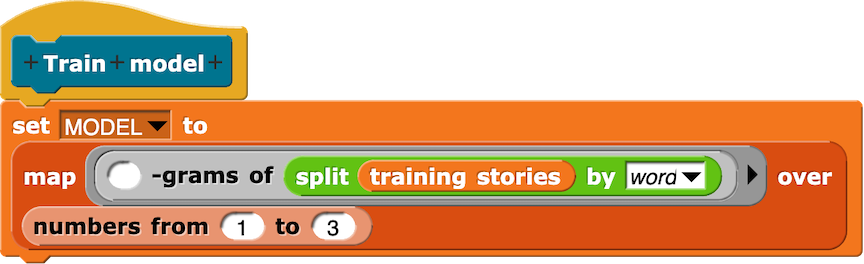
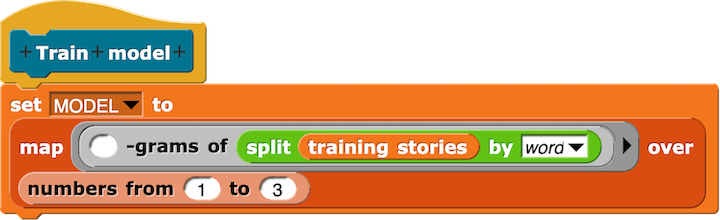
Sparks-U4L4P7-8 - Finished up lab 4

diff --git a/sparks/student-pages/U4/L4/07-generate-a-song.html b/sparks/student-pages/U4/L4/07-generate-a-song.html
@@ -3,35 +3,71 @@
     <head>
         <meta charset="utf-8">
         <script type="text/javascript" src="/bjc-r/llab/loader.js"></script>
-        <title>Unit 4 Lab 4: Generative AI with N-grams, Activity 2</title>
+        <title>Unit 4 Lab 4: Generative AI with N-grams, Activity 7</title>
     </head>
 
     <body>
-        <h2>How Does This Work?</h2>
-        <div class="learn">In this activity, you will preview a genAI Snap<em>!</em> project and generate your own story.</div>
+        <h2>Generate a Song</h2>
+        <div class="learn">In this activity, you will apply your algorithm to generating a song.</div>
         
-        <p>Here's a preview of the project you'll work with in this lab. The user enters the words "Once upon a time there was," and the rest of the story is generated by the program.</p>
-        <p>
-            <img class="indent" data-gifffer="/bjc-r/sparks/img/U4/lab04/ngram-story-example.gif"  alt="Animation of a Snap! project. The user enters: Once upon a time there was. Then words are generated on the screen one at a time to make a story." title="Animation of a Snap! project. The user enters: Once upon a time there was. Then words are generated on the screen one at a time to make a story."/>
-        </p>  
-
-
-
+		     
         <div class="forYouToDo">
             <ol>
-                <li>Click the image above to watch the program generate a story word by word.</li>
-                <li><img class="inline" src="/bjc-r/img/icons/talk-with-your-partner.png" alt="Talk with Your Partner" title="Talk with Your Partner" />
+                <li>So far in this lab, we've been working with stories that we broke down into words and n-grams of words.
                 	<ol>
-                		<li>How do you think this project works? How might the computer "decide" on the next word?</li>
-                		<li>Does this story make sense? Is it a good story?</li>
+                		<li>What about a song (a melody, a tune)? Can we break down songs into a smaller unit that we can arrange into n-grams? What might a 2-gram look like?</li>
                 	</ol>
                 </li>
-
-                
             </ol>
         </div>
+        
+        <div class="sidenote">You used a similar block in the <a href="/bjc-r/sparks/student-pages/U2/L1/01-playing-notes.html?topic=sparks%2F2-sequencing-iteration.topic&course=sparks.html" title="Song Player project in Unit 2 Lab 1">Song Player project in Unit 2 Lab 1</a>.</div>
+        
+        <p>For stories, our <strong>tokens</strong> were words. For songs, our token will be a note. There are different ways computers can store notes as data. In Snap<em>!</em>, we use this block <img class="inline-block" src="/bjc-r/sparks/img/U4/lab04/play-note-block.png" alt="play note (60) for (0.5) beats" title="play note (60) for (0.5) beats" />. Each note is defined with two numbers: the pitch (how high or low it sounds) and the length (how long to play it). For those who know musical notes, a pitch of 60 corresponds to middle C. The default tempo is 1 beat per second, so 0.5 beats is half a second.</p>
+        
+        <p>The <a class="js-run snap-project" href="/bjc-r/sparks/prog/U4/lab04/n-gram.xml&editMode" title="N-gram - Snap! project" target="_blank">N-gram project</a> we've been using contains a dataset of 20 children's songs. If you click on <img class="inline-block" src="/bjc-r/sparks/img/U4/lab04/20-childrens-songs.png" alt="20 childrens songs" title="20 childrens songs" /> you will see a list of 943 notes, each with a pitch and a length. The first 21 notes are shown here. For those who are curious, these notes are the first part of Twinkle, Twinkle, Little Star. </p>
+        
+        <img class="indent noshadow" src="/bjc-r/sparks/img/U4/lab04/song-note-list.png" alt="A list of the first 21 notes. Each row is a note and the first column is the pitch and the second column is the number of beats. The first note has pitch 60 for 1 beat. The second has pitch 60 for 1 beat. The third has pitch 67 for 1 beat." title="A list of the first 21 notes. Each row is a note and the first column is the pitch and the second column is the number of beats. The first note has pitch 60 for 1 beat. The second has pitch 60 for 1 beat. The third has pitch 67 for 1 beat." />
+        
+        <div class="forYouToDo">
+            <ol start="2">
+                <li>Describe the first four 2-grams.</li>
+                <li>Describe the first three 3-grams.</li>
+            </ol>
+        </div>
+        
+        <p>You can play all the songs by using this block. Tip: If you want it to play faster, look for a block (in the Sound palette) that sets the tempo and change the number of beats per minute (bpm).
+        <img class="indent noshadow" src="/bjc-r/sparks/img/U4/lab04/play-notes.png" alt="for each(item) in (20 childrens songs){play note(item 1 of (item)) for (item 2 of (item)) beats}" title="for each(item) in (20 childrens songs){play note(item 1 of (item)) for (item 2 of (item)) beats}" />
+        </p>
+        
+        <p>The data look different, but training the model and generating the next note look <em>exactly</em> the same. As a reminder, here's the inside of the "Train model" block for stories:
+        <img class="indent noshadow" src="/bjc-r/sparks/img/U4/lab04/train-model-inside.png" alt="Inside the Train model block: set(MODEL) to {map (( )-grams of split(training stories)by(word)) over (numbers from (1)to(3))}" title="Inside the Train model block: set(MODEL) to {map (( )-grams of split(training stories)by(word)) over (numbers from (1)to(3))}" />
+        and here's the inside of "Train song model":
+        <img class="indent noshadow" src="/bjc-r/sparks/img/U4/lab04/train-song-model-inside.png" alt="Inside the Train model block: set(MODEL) to {map (( )-grams of (20 childrens songs) over (numbers from (1)to(3))}" title="Inside the Train model block: set(MODEL) to {map (( )-grams of (20 childrens songs) over (numbers from (1)to(3))}" />
+       </p>
+       
+               
+        <div class="forYouToDo">
+		  	<ol start="4">
+		  		<li>Try the song generator!
+		  			<ol>
+		  				<li><img class="inline" src="/bjc-r/img/icons/talk-with-your-partner.png" alt="Talk with Your Partner" title="Talk with Your Partner" />Same question from the previous activity: What do you think? Is this AI?</li>
+		  				<li>What are some possible ways to make a better song generator?</li>
+		  			</ol>
+		  		</li>
+		  	</ol>
+		  </div>
+        
+        <div class="ifTime show">
+		  	<ol start="5">
+		  		<li>Do you hear bits and pieces of familiar tunes in the generated song? Here's a slightly different version of this same project (using the same data), except this project added another column of data to keep track of which song the note came from. The project is called <a class="js-run snap-project" href="/bjc-r/sparks/prog/U4/lab04/explainable-ai-songs.xml&editMode" title="Explainable AI - Songs" target="_blank">Explainable AI - Songs</a>. Now, as the music plays, you see a table on the stage that shows a dot when a candidate came from the song, and a heart for the note that was actually chosen.
+		  			<ol><li>Do you notice that sometimes the algorithm gets "stuck" in one song? Can you explain why this might happen using what you know about n-grams and our algorithm that uses context?</li></ol>
 
-        <div class="learn">In this activity, you discussed how a project might generate a story word by word.</div>
+		  		</li>
+		  	</ol>
+		  </div>
+
+        <div class="learn">In this activity, you learned that the same logic of n-grams and generating the next "thing" can work for notes, just like it did for words.</div>
 
 
     </body>

diff --git a/sparks/student-pages/U4/L4/08-generate-a-drawing.html b/sparks/student-pages/U4/L4/08-generate-a-drawing.html
@@ -3,35 +3,70 @@
     <head>
         <meta charset="utf-8">
         <script type="text/javascript" src="/bjc-r/llab/loader.js"></script>
-        <title>Unit 4 Lab 4: Generative AI with N-grams, Activity 2</title>
+        <title>Unit 4 Lab 4: Generative AI with N-grams, Activity 8</title>
     </head>
 
     <body>
-        <h2>How Does This Work?</h2>
-        <div class="learn">In this activity, you will preview a genAI Snap<em>!</em> project and generate your own story.</div>
+        <h2>Generate a Drawing</h2>
+        <div class="learn">In this activity, you will extend the same logic for stories and songs to drawings.</div>
         
-        <p>Here's a preview of the project you'll work with in this lab. The user enters the words "Once upon a time there was," and the rest of the story is generated by the program.</p>
+        <p>Here's a preview of how the drawing part of our <a class="js-run snap-project" href="/bjc-r/sparks/prog/U4/lab04/n-gram.xml&editMode" title="N-gram - Snap! project" target="_blank">N-gram project</a> works. The user clicks "Train picture model," then draws a picture (this one has a lot of right angles). Then the user clicks on "Generate picture" and the program draws a picture in the style of the user's drawing.</p>
+        
         <p>
-            <img class="indent" data-gifffer="/bjc-r/sparks/img/U4/lab04/ngram-story-example.gif"  alt="Animation of a Snap! project. The user enters: Once upon a time there was. Then words are generated on the screen one at a time to make a story." title="Animation of a Snap! project. The user enters: Once upon a time there was. Then words are generated on the screen one at a time to make a story."/>
+            <img class="indent" data-gifffer="/bjc-r/sparks/img/U4/lab04/ngram-drawing-example.gif"  alt="Animation of a Snap! project. The user draws a picture, then the program generates a drawing in the style of the user's drawing." title="Animation of a Snap! project. The user draws a picture, then the program generates a drawing in the style of the user's drawing."/>
         </p>  
-
 
 
         <div class="forYouToDo">
             <ol>
-                <li>Click the image above to watch the program generate a story word by word.</li>
-                <li><img class="inline" src="/bjc-r/img/icons/talk-with-your-partner.png" alt="Talk with Your Partner" title="Talk with Your Partner" />
-                	<ol>
-                		<li>How do you think this project works? How might the computer "decide" on the next word?</li>
-                		<li>Does this story make sense? Is it a good story?</li>
-                	</ol>
-                </li>
-
-                
+                <li><img class="inline" src="/bjc-r/img/icons/talk-with-your-partner.png" alt="Talk with Your Partner" title="Talk with Your Partner" />What are some ways you could represent a drawing as data (that we can then arrange into n-grams)?</li>
+      
             </ol>
         </div>
+        
+        <p>There are lots of possible ways to represent a drawing as data. This project uses <em>directions</em>. The direction is a number between 0 and 360 that shows the angle at which the sprite would have to move to follow the mouse. In this program, whenever the mouse moves more than 5 steps away from the sprite, a new direction is captured and added to a list of directions.</p>
+        
+        <div class="forYouToDo">
+            <ol start="2">
+                <li>Try the <img class="inline-block" src="/bjc-r/sparks/img/U4/lab04/sketch.png" alt="sketch" title="sketch" /> block to see how it reports a list of directions. For example, click on the sketch block, then draw a straight line from left to right across the stage. Then click the sketch block again to see that it returns a list of directions. What angle (direction) corresponds to moving from left to right across the stage?</li>
+                <li>Move in other directions to check that you understand how the sketch block reports a list of directions. What direction is going straight down the stage? From right to left? What does the list look like if you draw a circle on the stage?</li>
+               
+            </ol>
+        </div>
+        
+        <p>If you tell the mouse where to start a drawing, a list of directions is enough to recreate the drawing. The next set of blocks in the project shows that you can save the list of directions that sketch reports in a variable (called "drawing") and then use a "draw sketch" block to use those directions to recreate the picture. We don't need the "draw sketch" block for our generator; this just shows that the directions can be used to reproduce the drawing.</p>
+        
+        <img class="indent noshadow" src="/bjc-r/sparks/img/U4/lab04/set-and-recreate-sketch.png" alt="set(drawing) to (sketch); draw sketch(drawing)" title="set(drawing) to (sketch); draw sketch(drawing)" />
+        
+        <div class="forYouToDo">
+            <ol start="4">
+                <li>Draw a sketch and get a list of directions. What would the first four 2-grams for that data be?</li>
+                <li>What would the first three 3-grams be?</li>
+                <li>Look inside the <img class="inline-block" src="/bjc-r/sparks/img/U4/lab04/train-picture-model.png" alt="Train picture model" title="Train picture model" /> block. How does it compare to the "Train model" and "Train song model" blocks used for stories and songs?</li>
+            </ol>
+        </div>
+        
+       
+        <p>If you open the <img class="inline-block" src="/bjc-r/sparks/img/U4/lab04/generate-picture.png" alt="Generate picture" title="Generate picture" /> block, you will see the familiar <img class="inline-block" src="/bjc-r/sparks/img/U4/lab04/next-item-in-()-based-on-().png" alt="next item in () based on (model)" title="next item in () based on (model)" /> block. As for stories and songs, all the directions are arranged into n-grams, and then the last few directions are used as context to match up with n-grams to provide candidates for a next direction. One of those is chosen, and the program makes a new line in that direction.</p>
+        
+        <div class="forYouToDo">
+		  	<ol start="7">
+		  		<li>Try the drawing generator!
+		  			<ol>
+		  				<li><img class="inline" src="/bjc-r/img/icons/talk-with-your-partner.png" alt="Talk with Your Partner" title="Talk with Your Partner" />Same question from the previous activity: What do you think? Is this AI?</li>
+		  				<li>What are some possible ways to make a better drawing generator?</li>
+		  			</ol>
+		  		</li>
+		  	</ol>
+		  </div>
+        
+        <div class="ifTime show">
+		  	<ol start="8">
+		  		<li>Did you notice that the generated picture draws smaller patterns compared to the original? This was done intentionally to fit more of the generated drawing onto the screen. But you can change this. Open the <img class="inline-block" src="/bjc-r/sparks/img/U4/lab04/generate-picture.png" alt="Generate picture" title="Generate picture" /> block and try to change it so that the generated picture isn't so small.</li>
+		  	</ol>
+		  </div> 
 
-        <div class="learn">In this activity, you discussed how a project might generate a story word by word.</div>
+        <div class="learn">In this activity, you learned that the same logic of n-grams and generating the next "thing" can work for drawings, just like it did for songs and stories.</div>
 
 
     </body>